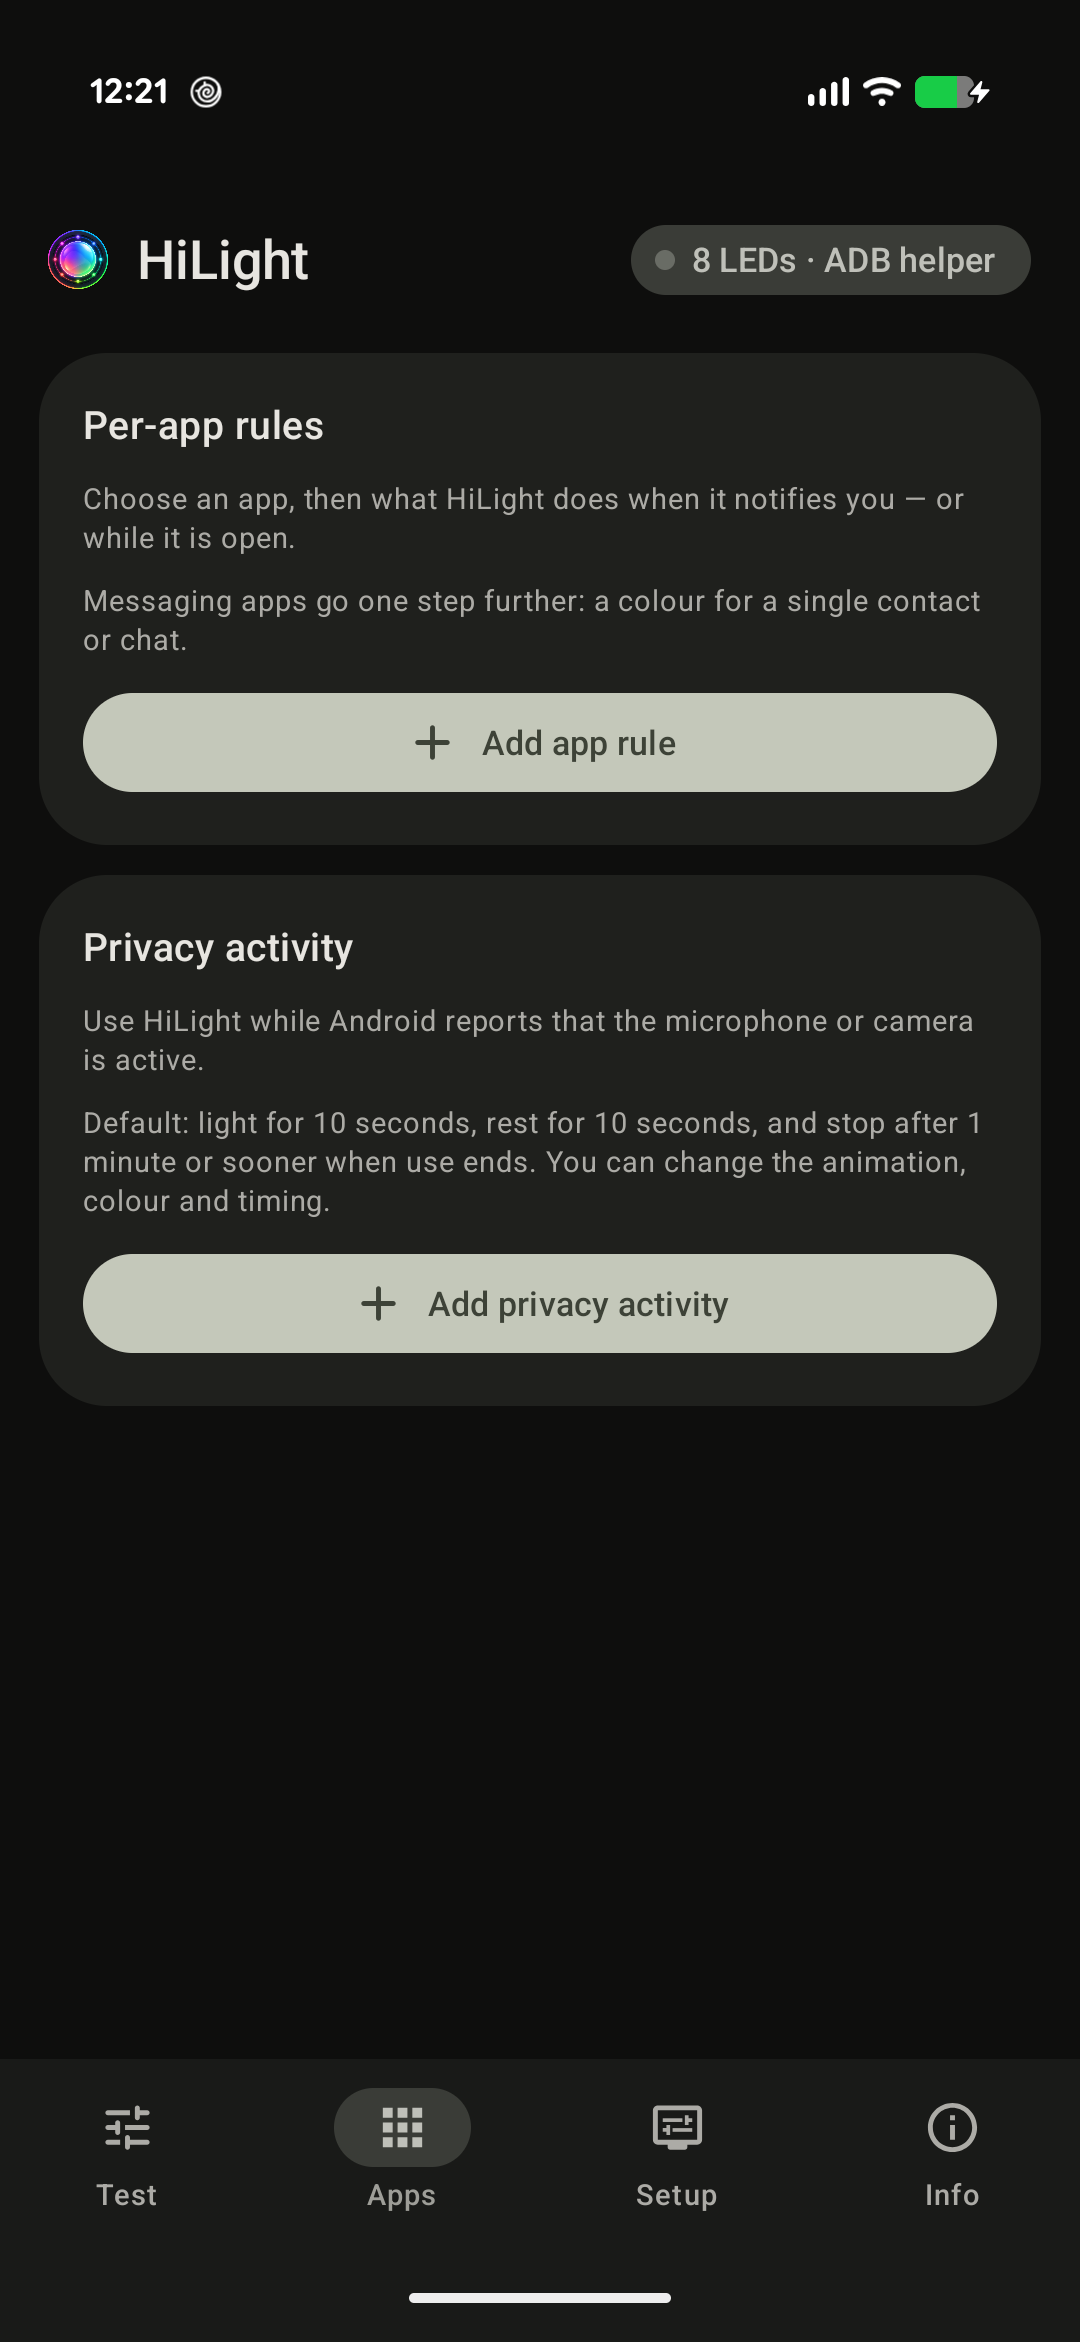
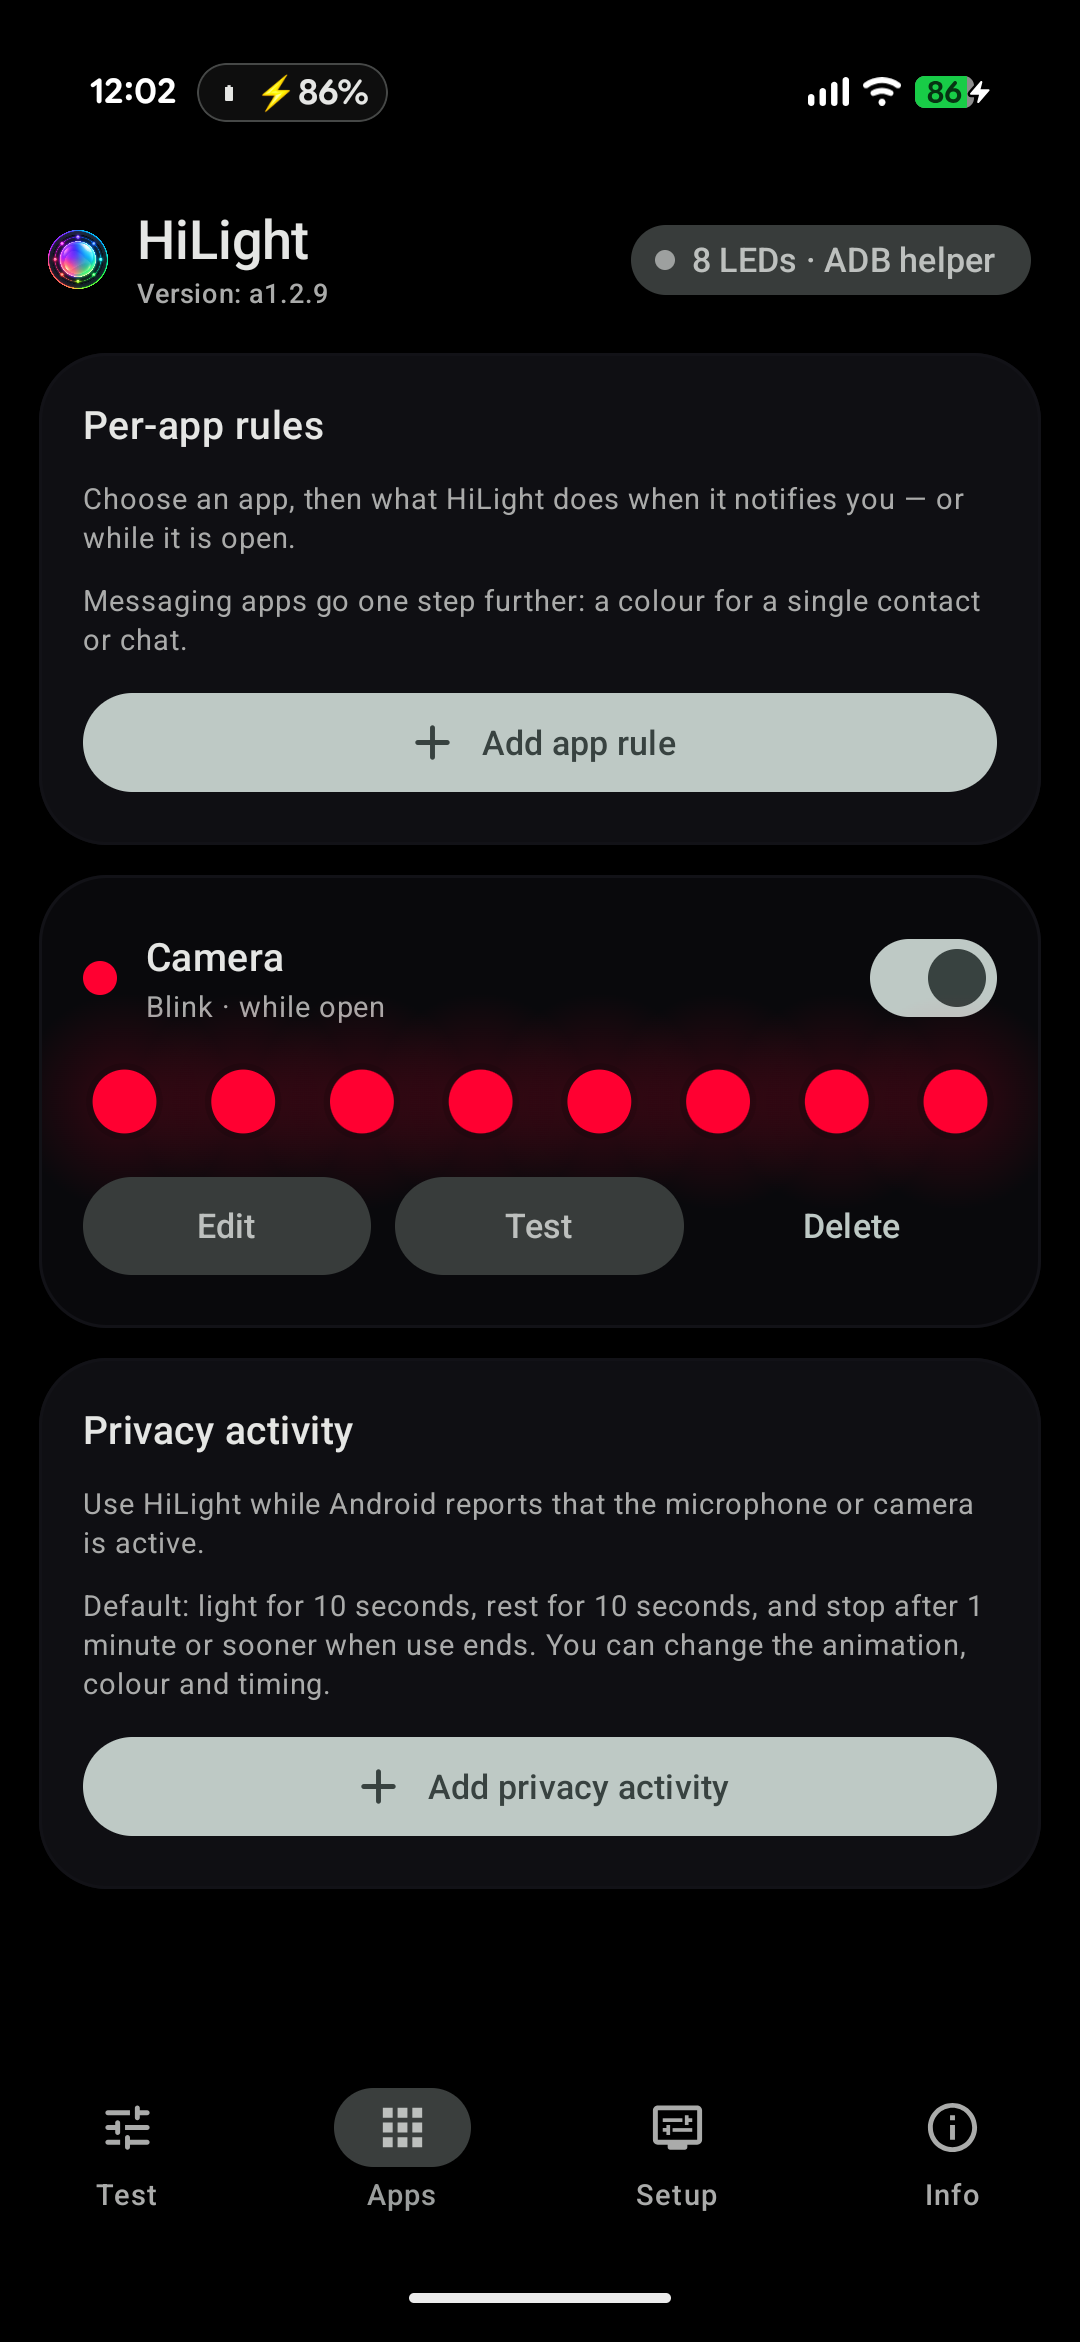
docs: update screenshots with on-device AMOLED captures, add unfolded layout showcases, and document v3.9 in changelog

diff --git a/CHANGELOG.md b/CHANGELOG.md
@@ -37,6 +37,7 @@ Below is the chronological log of user directives, problems identified, and the 
 | **16** | *"When an app is opened the notification LED starts like intended but it doesn't necessarily stop either. It triggers randomly or it triggers when the screen is locked or goes to AOD mode."* | 1) ForegroundWatcher replayed overlapping past events into persistent map, resurrecting paused apps. 2) Pause events with null/different class names failed to remove app from tracker. 3) Missing interactivity and lock checks caused apps to remain foregrounded during screen off/lock. 4) `ACTION_SCREEN_OFF` auto-armed ambient timer with `armOnRelease = true` and re-sent lingering foreground alerts. | **Foreground & Screen Lock / AOD Lifecycle Fix**: 1) Monotonic event timestamp tracking in `ForegroundWatcher` without duplicate replay. 2) Enhanced `ForegroundAppTracker` to clear all package entries on pause/stop with null/blank class names and added `STOPPED` lifecycle handling. 3) Added `PowerManager.isInteractive` and `KeyguardManager.isKeyguardLocked` checks to clear foreground state when locked/screen off. 4) Changed `ACTION_SCREEN_OFF` to clear foreground overrides and cancel alerts without auto-arming (`armOnRelease = false`). |
 | **17** | *"Incorporate original dev's upstream fixes (v1.0.9 stuck LED & lifecycle hardening) into fork without breaking custom features, and bump to v3.6."* | Hardware LED latching/stuck pixels on Pixel 11 Pro after abrupt exits, plus daemon collision between Shizuku, ADB, and Root backends. | **Upstream Merge & Hardening (v3.6 / `a1.2.6`)**: 1) Merged `RendererContract` protocol v1 / revision 4 / schema 6. 2) 3-pass bounded black clear sequences (`ForcedBlackClear`, `LightsBackend`). 3) Instance-fenced ADB, Shizuku, and Root handoffs with SIGTERM `/proc` validation. 4) Privacy-safe diagnostic status snapshots (`RendererDiagnostics`) and manual LED cleanup retry in Setup tab. 5) Preserved all custom fork features (overdrive, 3-color transitions, 8 per-LED arrays, While-Open holds, desktop manager, Material 3 palettes). |
 | **18** | *"Ensure Disable Taper and Max Brightness Override operate independently, verify zero wake-lock/battery drain loops, respect app timers and force-stop, guarantee full 8-LED hardware brightness, ensure zero conflict with on-device AI apps (Android System Intelligence / AI Core), and bump to v3.9 (`a1.2.9`)."* | 1) Need clear separation of Test tab "Disable Taper" vs Setup tab global "Max Brightness Override". 2) Battery drain/wake lock loop prevention during screen off. 3) Digital Wellbeing/app timer and force-stop compliance. 4) Modern Android HAL 100% luminance drive via `LightState.Builder.setBrightness(255)`. 5) Avoid false light flashes from background AI telemetry pings. | **V3.9 (`a1.2.9`) Feature & Stability Release**: 1) Separated "Disable Taper" on Test from "Max Brightness Override" in Setup; Setup override automatically locks Test toggle ON with warning alert. 2) Screen-off interactive suppression pauses background tick timers completely (0 wake locks, 0 background CPU loops). 3) `isOwnerSuspendedOrStopped` detects Android Settings force-stop via reflected `IPackageManager` and drops hardware session immediately. 4) `LightState.Builder.setBrightness(255)` drives full-current hardware output across all 8 LEDs with 100% saturated color channels. 5) `INTERNAL_SYSTEM_OR_AI_PKGS` filter prevents internal daemons (`com.google.android.as`, `com.google.android.aicore`, `android`, etc.) from triggering Catch-All rules. |
+| **19** | *"1. AMOLED mode isn't truly AMOLED mode (needs pure black with darker buttons/panels and dynamic evening hours support). 2. Make foldable dock movable right/left when unfolded. 3. In-app persistent notification toggle fix. 4. Capture authentic on-device AMOLED screenshots folded and unfolded for README."* | 1) Dark theme was using `#121216` dark gray instead of pure `#000000` OLED black. 2) Unfolded navigation rail was fixed to left side. 3) Notification persistence toggle in Setup did not stop the running service. 4) Need real on-device screenshots of all 4 tabs in AMOLED pitch black and unfolded wide screen. | **True AMOLED Pitch Black, Foldable Dock Positioning & Notification Sync**: 1) Converted root Scaffold, TopAppBar, NavigationBar, and NavigationRail to pure `#000000` with `#050507`–`#0F0F13` elevated panels, plus dynamic schedule toggle in Setup. 2) Added **"Foldable dock position (unfolded)"** selector (`Left` \| `Right`) in Setup $\rightarrow$ Appearance. 3) Connected `setPersistentNotificationEnabled()` to `syncForegroundWatcher()` with live `stopForeground(STOP_FOREGROUND_REMOVE)` and `startForeground()` dynamic switching. 4) Captured 8 authentic on-device screenshots via ADB (4 folded AMOLED tabs + 4 unfolded inner display views) and updated `README.md`. |
 
 
 ---

diff --git a/README.md b/README.md
@@ -38,6 +38,7 @@
   - **Material 3 Palettes**: Dynamic Material You (wallpaper colors), Pixel Indigo, Ocean Blue, Emerald Green, Coral Peach, Amber Gold, Berry Rose, and Monochrome.
 - **Foldable Adaptive Dual-Pane Layout**:
   - Automatically switches between single-column navigation and dual-pane side `NavigationRail` with persistent real-time 8-LED `DeviceHero` when unfolded on the Pixel 11 Pro Fold inner screen (`>= 600dp`).
+  - **Configurable Dock Position**: Position the navigation rail on the **Left** or **Right** side when unfolded for one-handed thumb comfort.
 - **Tabletop Video Fill Light & Emergency SOS Beacon**:
   - Tuned continuous lighting for video calls, selfies, and tabletop shooting with color temperature presets: Warm (2700K), Soft (3800K), Neutral (4500K), and Cool (6500K).
   - High-visibility emergency SOS beacon.
@@ -52,23 +53,37 @@
 - **Hardware & Lifecycle Safety Guards**:
   - Honors Android's "Pause app" and Digital Wellbeing timers, stopping background activity when suspended.
   - `START_NOT_STICKY` service behavior ensures clean force-stops via Android Settings without unwanted respawns.
+  - Live in-app toggle for Background Status Notification persistence with zero background polling or wake locks.
 
 ## Screenshots
 
-### 📱 Android Application (Pixel 11 Pro Series / Fold)
+### 📱 Android Application — True AMOLED Pitch Black (Folded Outer Display)
 
 <table>
 <tr>
-<td width="25%"><img src="docs/media/screen-test.png" alt="Test tab with effects, presets, and live controls"></td>
-<td width="25%"><img src="docs/media/screen-apps.png" alt="Apps tab with per-app and notification rules"></td>
-<td width="25%"><img src="docs/media/screen-setup.png" alt="Setup tab with access and safety controls"></td>
-<td width="25%"><img src="docs/media/screen-info.png" alt="Info tab with disclosures and diagnostics"></td>
+<td width="25%"><img src="docs/media/screen-test.png" alt="Test tab with effects, presets, and live controls in AMOLED Pitch Black"></td>
+<td width="25%"><img src="docs/media/screen-apps.png" alt="Apps tab with per-app and notification rules in AMOLED Pitch Black"></td>
+<td width="25%"><img src="docs/media/screen-setup.png" alt="Setup tab with access, theme, and safety controls in AMOLED Pitch Black"></td>
+<td width="25%"><img src="docs/media/screen-info.png" alt="Info tab with disclosures and diagnostics in AMOLED Pitch Black"></td>
 </tr>
 <tr>
 <td align="center"><sub><b>1. Test &amp; Effects</b></sub></td>
 <td align="center"><sub><b>2. Apps &amp; Triggers</b></sub></td>
 <td align="center"><sub><b>3. Setup &amp; Access</b></sub></td>
 <td align="center"><sub><b>4. Info &amp; Disclosures</b></sub></td>
+</tr>
+</table>
+
+### 📖 Foldable Adaptive Layout (Pixel 11 Pro Fold Unfolded Inner Display)
+
+<table>
+<tr>
+<td width="50%"><img src="docs/media/screen-unfolded-test.png" alt="Unfolded Test tab with centered cards and side navigation rail"></td>
+<td width="50%"><img src="docs/media/screen-unfolded-setup.png" alt="Unfolded Setup tab with dock position and AMOLED controls"></td>
+</tr>
+<tr>
+<td align="center"><sub><b>Unfolded: Test &amp; Controls</b></sub></td>
+<td align="center"><sub><b>Unfolded: Setup &amp; Dock Options</b></sub></td>
 </tr>
 </table>
 
